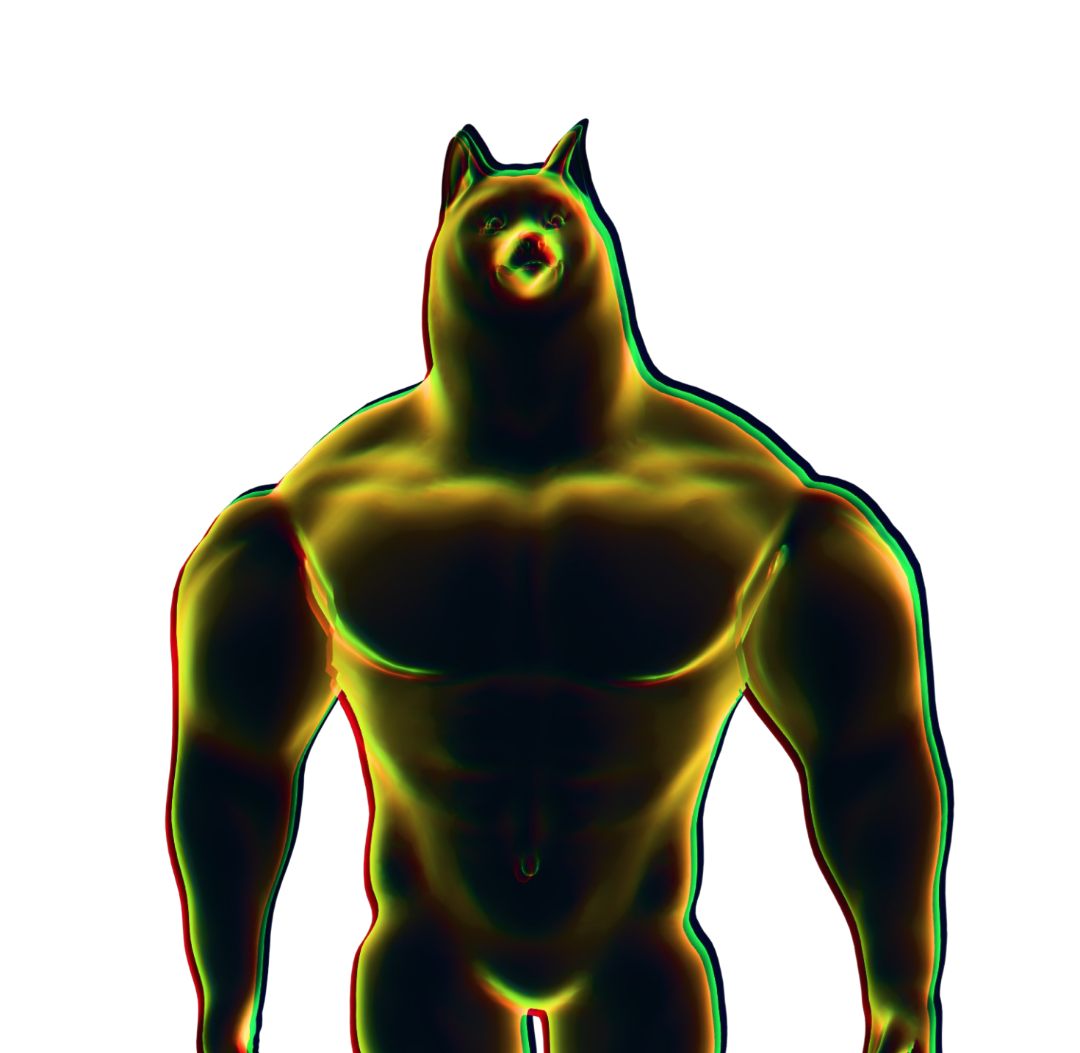
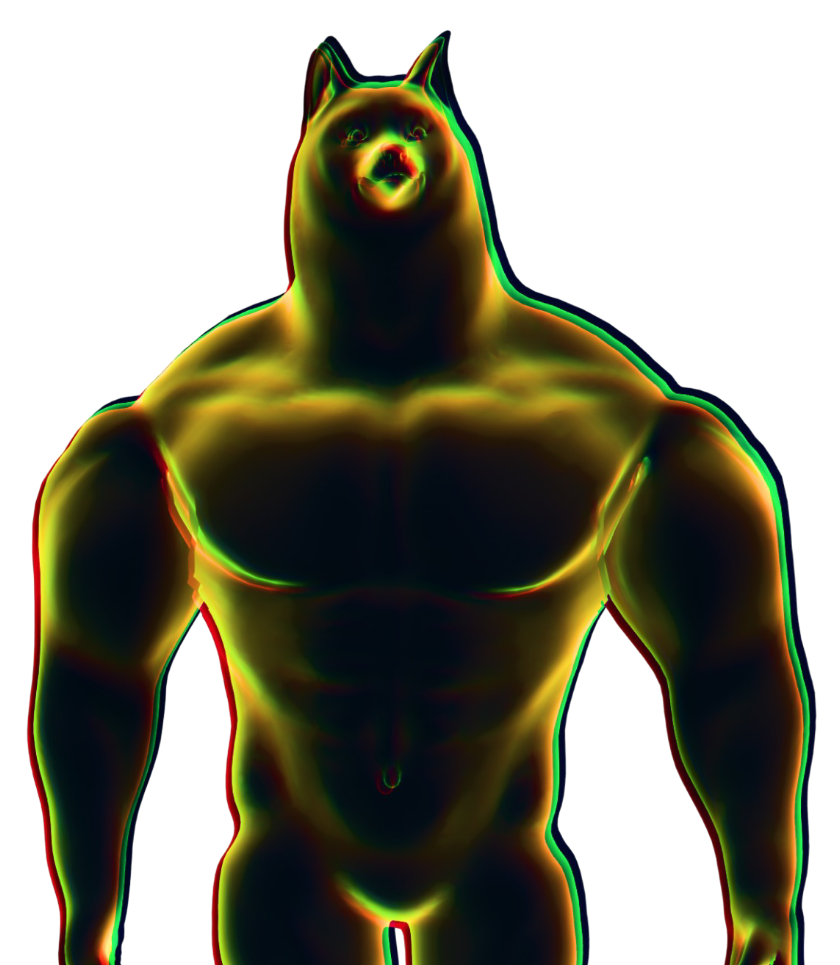
fix section 3

diff --git a/components/Scene3D.tsx b/components/Scene3D.tsx
@@ -194,7 +194,7 @@ export default function Scene3D({
 
   // Calculate opacity, scale, and position based on scroll progress
   // scrollProgress is typically 0 to 1, where 0 is top and 1 is scrolled down
-  // Keep size constant until section 2 (around 0.4 scroll progress)
+  // Doge fades out from 0.45 to 0.5 scroll progress
   const section2Threshold = 0.4; // End of section 2 (2 out of 5 sections)
   const section3Threshold = 0.6; // Start of section 3 (60% progress)
 
@@ -202,14 +202,18 @@ export default function Scene3D({
   const adjustedScrollProgress = Math.max(0, scrollProgress - section2Threshold);
   const normalizedScrollProgress = adjustedScrollProgress / (1 - section2Threshold);
 
-  const opacity = Math.max(0, 1 - normalizedScrollProgress * 2); // Fade out faster
+  // Doge fade out: start at 0.45, completely gone by 0.5
+  const fadeStartProgress = 0.4;
+  const fadeEndProgress = 0.45;
+  const opacity = scrollProgress < fadeStartProgress 
+    ? 1.0 
+    : scrollProgress >= fadeEndProgress 
+      ? 0.0 
+      : 1.0 - ((scrollProgress - fadeStartProgress) / (fadeEndProgress - fadeStartProgress));
   const scale = scrollProgress <= section2Threshold ? 1.1 : Math.max(0.3, 1.1 - normalizedScrollProgress * 1.5); // Smaller size (1.0) until section 2
   const translateY = scrollProgress <= section2Threshold ? 0 : -scrollProgress * 250 + 50; // Keep position same until section 2 ends, then move up
 
-  // Smooth doge positioning transition from center to left
-  const dogeTransitionRange = section3Threshold - section2Threshold; // 0.07 range
-  const dogeTransitionProgress = Math.min(1, Math.max(0, (scrollProgress - section2Threshold) / dogeTransitionRange));
-  const dogeTranslateX = `${dogeTransitionProgress * -25}%`; // Smoothly move from 0% to -25%
+  // Doge stays centered - no horizontal movement
 
   // Calculate distortion amount based on scroll velocity
   const distortionScale = Math.min(Math.abs(scrollVelocity) * 200, 400);
@@ -406,142 +410,6 @@ export default function Scene3D({
           </div>
         )}
 
-      {/* Section 3+ Headline Text with RGB Split Effect - Smooth Transition */}
-      {isMounted && scrollProgress >= section2Threshold && (
-      <div
-        style={{
-          position: 'absolute',
-          top: '8%',
-          left: '50%',
-          transform: `translateX(-50%) scale(${scale * (0.9 + dogeTransitionProgress * 0.1)})`,
-          width: 'auto',
-          height: 'auto',
-          zIndex: 0,
-          pointerEvents: 'none',
-          opacity: opacity * dogeTransitionProgress,
-          transition: 'opacity 0.1s ease-out, transform 0.1s ease-out',
-        }}
-      >
-        {/* RGB Split Effect Container */}
-        <div style={{ position: 'relative', display: 'inline-block', fontFamily:'var(--font-aktiv)' }}>
-              {/* RGB Split Layers - Only show when active */}
-              {isRgbSplitActive && (
-                <>
-                  {/* Red Channel */}
-                  <div
-                    style={{
-                      position: 'absolute',
-                      top: 0,
-                      left: '-8px',
-                      width: 'auto',
-                      height: '200px',
-                      display: 'flex',
-                      alignItems: 'center',
-                      justifyContent: 'center',
-                      fontFamily: 'Aktiv Grotesk Ex Trial',
-                      fontWeight: '800',
-                      fontStyle: 'italic',
-                      fontSize: '122px',
-                      lineHeight: '100%',
-                      letterSpacing: '-4.28px',
-                      textAlign: 'center',
-                      color: '#ff0000',
-                      mixBlendMode: 'screen',
-                      filter: 'brightness(1.5)',
-                      opacity: 0.8,
-                      whiteSpace: 'nowrap',
-                    }}
-                    className="rgb-split-red"
-                  >
-                    Mint sDOGE
-                  </div>
-
-                  {/* Green Channel */}
-                  <div
-                    style={{
-                      position: 'absolute',
-                      top: 0,
-                      left: 0,
-                      width: 'auto',
-                      height: '200px',
-                      display: 'flex',
-                      alignItems: 'center',
-                      justifyContent: 'center',
-                      fontFamily: 'Aktiv Grotesk Ex Trial',
-                      fontWeight: '800',
-                      fontStyle: 'italic',
-                      fontSize: '122px',
-                      lineHeight: '100%',
-                      letterSpacing: '-4.28px',
-                      textAlign: 'center',
-                      color: '#00ff00',
-                      mixBlendMode: 'screen',
-                      filter: 'brightness(1.5)',
-                      opacity: 0.8,
-                      whiteSpace: 'nowrap',
-                    }}
-                    className="rgb-split-green"
-                  >
-                    Mint sDOGE
-                  </div>
-
-                  {/* Blue Channel */}
-                  <div
-                    style={{
-                      position: 'absolute',
-                      top: 0,
-                      left: '8px',
-                      width: 'auto',
-                      height: '200px',
-                      display: 'flex',
-                      alignItems: 'center',
-                      justifyContent: 'center',
-                      fontFamily: 'Aktiv Grotesk Ex Trial',
-                      fontWeight: '800',
-                      fontStyle: 'italic',
-                      fontSize: '122px',
-                      lineHeight: '100%',
-                      letterSpacing: '-4.28px',
-                      textAlign: 'center',
-                      color: '#0000ff',
-                      mixBlendMode: 'screen',
-                      filter: 'brightness(1.5)',
-                      opacity: 0.8,
-                      whiteSpace: 'nowrap',
-                    }}
-                    className="rgb-split-blue"
-                  >
-                    Mint sDOGE
-                  </div>
-                </>
-              )}
-
-              {/* Main Text */}
-              <div
-                style={{
-                  position: 'relative',
-                  width: 'auto',
-                  height: '200px',
-                  display: 'flex',
-                  alignItems: 'center',
-                  justifyContent: 'center',
-                  fontFamily: 'Aktiv Grotesk Ex Trial',
-                  fontWeight: '800',
-                  fontStyle: 'italic',
-                  fontSize: '122px',
-                  lineHeight: '100%',
-                  letterSpacing: '-4.28px',
-                  textAlign: 'center',
-                  color: '#ffffff',
-                  filter: isRgbSplitActive ? 'brightness(1.1)' : 'brightness(1)',
-                  whiteSpace: 'nowrap',
-                }}
-              >
-                Mint sDOGE
-              </div>
-            </div>
-          </div>
-        )}
 
         {/* CSS for RGB Split Effect */}
         <style jsx>{`
@@ -597,8 +465,7 @@ export default function Scene3D({
             width: '100%',
             height: '100%',
             opacity: opacity,
-            transform: `translateX(calc(${dogeTranslateX} - 25px)) translateY(${translateY}px) scale(${scale})`,
-            transformOrigin: scrollProgress >= section3Threshold ? 'left center' : 'center center',
+             transform: `translateX(-25px) translateY(${translateY}px) scale(${scale})`,
             transition: 'opacity 0.1s ease-out, transform 0.1s ease-out',
           }}
         >

diff --git a/components/Section3YieldPanel.tsx b/components/Section3YieldPanel.tsx
@@ -30,17 +30,80 @@ export default function Section3YieldPanel({ scrollProgress }: YieldPanelProps) 
     const scale = 0.9 + (transitionProgress * 0.1); // Start at 90%, grow to 100%
 
     return (
-        <div 
-            className="absolute top-1/2 left-[63%] z-30 pointer-events-none max-w-2xl"
-            style={{
-                opacity: opacity,
-                transform: `translateX(-50%) translateY(calc(-50% + ${translateY}px)) scale(${scale})`,
-                transition: 'opacity 0.1s ease-out, transform 0.1s ease-out'
-            }}
-        >
+        <>
+            {/* Mint sDOGE Headline */}
+            <div
+                className="absolute z-30 pointer-events-none"
+                style={{
+                    top: '10%',
+                    left: '50%',
+                    transform: `translateX(-50%) scale(${scale})`,
+                    opacity: opacity,
+                    transition: 'opacity 0.1s ease-out, transform 0.1s ease-out',
+                }}
+            >
+                <div
+                    style={{
+                        fontFamily: 'var(--font-aktiv)',
+                        fontWeight: '800',
+                        fontStyle: 'italic',
+                        fontSize: '104px',
+                        lineHeight: '100%',
+                        letterSpacing: '-4.28px',
+                        textAlign: 'center',
+                        color: '#ffffff',
+                        whiteSpace: 'nowrap',
+                    }}
+                >
+                    Mint sDOGE
+                </div>
+            </div>
+
+            {/* Dotted Border Behind Doge Image */}
+            <div 
+                className="absolute top-[57%] left-[30%] pointer-events-none border-2 border-white/30 border-dotted rounded"
+                style={{
+                    opacity: opacity,
+                    transform: `translateX(-50%) translateY(calc(-50% + ${translateY}px)) scale(${scale * 1.2})`,
+                    transition: 'opacity 0.1s ease-out, transform 0.1s ease-out',
+                    width: '420px',
+                    height: '440px',
+                    zIndex: 19,
+                }}
+            />
+
+            {/* Doge Image - Left Side */}
+            <div 
+                className="absolute top-[52%] left-[30%] z-20 pointer-events-none"
+                style={{
+                    opacity: opacity,
+                    transform: `translateX(-50%) translateY(calc(-50% + ${translateY}px)) scale(${scale * 1.2})`,
+                    transition: 'opacity 0.1s ease-out, transform 0.1s ease-out'
+                }}
+            >
+                <img 
+                    src="/image/doge.png" 
+                    alt="Doge" 
+                    style={{
+                        width: '450px',
+                        height: 'auto',
+                        objectFit: 'contain',
+                    }}
+                />
+            </div>
+
+            {/* Yield Panel */}
+            <div 
+                className="absolute top-[55%] left-[67%] z-30 pointer-events-none min-w-[44rem]"
+                style={{
+                    opacity: opacity,
+                    transform: `translateX(-50%) translateY(calc(-50% + ${translateY}px)) scale(${scale})`,
+                    transition: 'opacity 0.1s ease-out, transform 0.1s ease-out'
+                }}
+            >
             {/* Main Title */}
             <div className="text-white text-2xl md:text-3xl font-light italic mb-8 leading-tight"
-                style={{ fontFamily: 'var(--font-aktiv)', fontWeight: '400', marginBottom: '2.5rem' }}>
+                style={{ fontFamily: 'Aktiv Grotesk Ex Trial', fontWeight: '100', fontStyle: 'italic', marginBottom: '2.5rem' }}>
                 Begin accruing yield right away
             </div>
 
@@ -102,5 +165,6 @@ export default function Section3YieldPanel({ scrollProgress }: YieldPanelProps) 
                 </div>
             </div>
         </div>
+        </>
     );
 }

diff --git a/app/globals.css b/app/globals.css
@@ -33,6 +33,22 @@
   font-display: swap;
 }
 
+@font-face {
+  font-family: 'Aktiv Grotesk Ex Trial';
+  src: url('/fonts/TrialStaticFonts/AktivGroteskEx_Trial_LtIt.ttf') format('truetype');
+  font-weight: 300;
+  font-style: italic;
+  font-display: swap;
+}
+
+@font-face {
+  font-family: 'Aktiv Grotesk Ex Trial';
+  src: url('/fonts/TrialStaticFonts/AktivGroteskEx_Trial_ThIt.ttf') format('truetype');
+  font-weight: 100;
+  font-style: italic;
+  font-display: swap;
+}
+
 /* Beltram Mono Test Font */
 @font-face {
   font-family: 'Beltram Mono Test';
